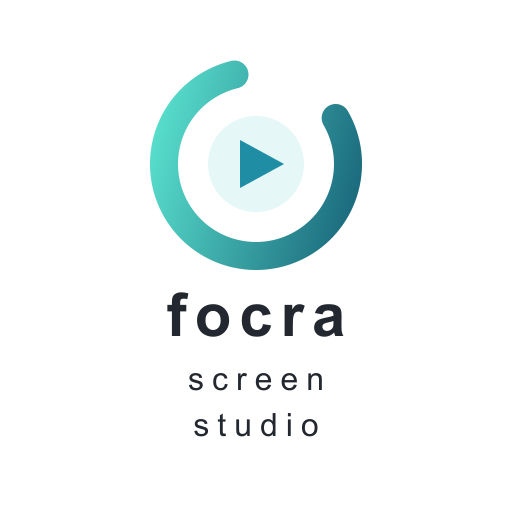
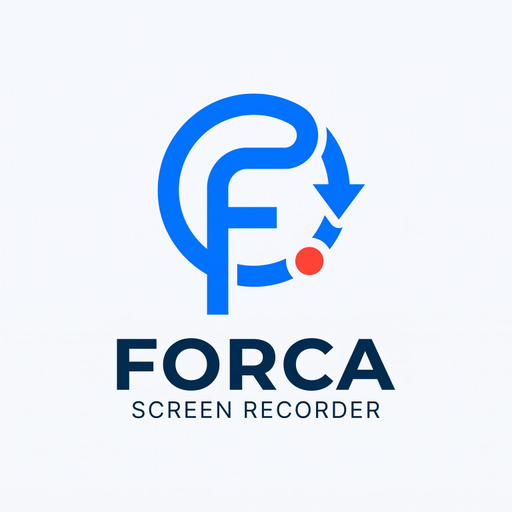
feat: add RecordPage component and application branding assets

Changed region(s): [[0.2188, 0.0938, 0.7812, 0.875]]

diff --git a/src/renderer/pages/RecordPage.tsx b/src/renderer/pages/RecordPage.tsx
@@ -5,7 +5,7 @@ import RecordingControls from '../components/recording/RecordingControls'
 import RecordingPreview from '../components/recording/RecordingPreview'
 import type { CaptureBounds, DesktopSource, RecordingResult, ZoomKeyframe, MouseEventData } from '../types'
 // @ts-ignore
-import appLogo from '../assets/focra-logo.svg'
+import appLogo from '../assets/focra-logo.png'
 
 const TARGET_FRAME_RATE = 60
 

diff --git a/README.md b/README.md
@@ -1,4 +1,5 @@
 <div align="center">
+  <img src="resources/icon.png" width="128" alt="Focra Logo" />
 
 # Focra
 